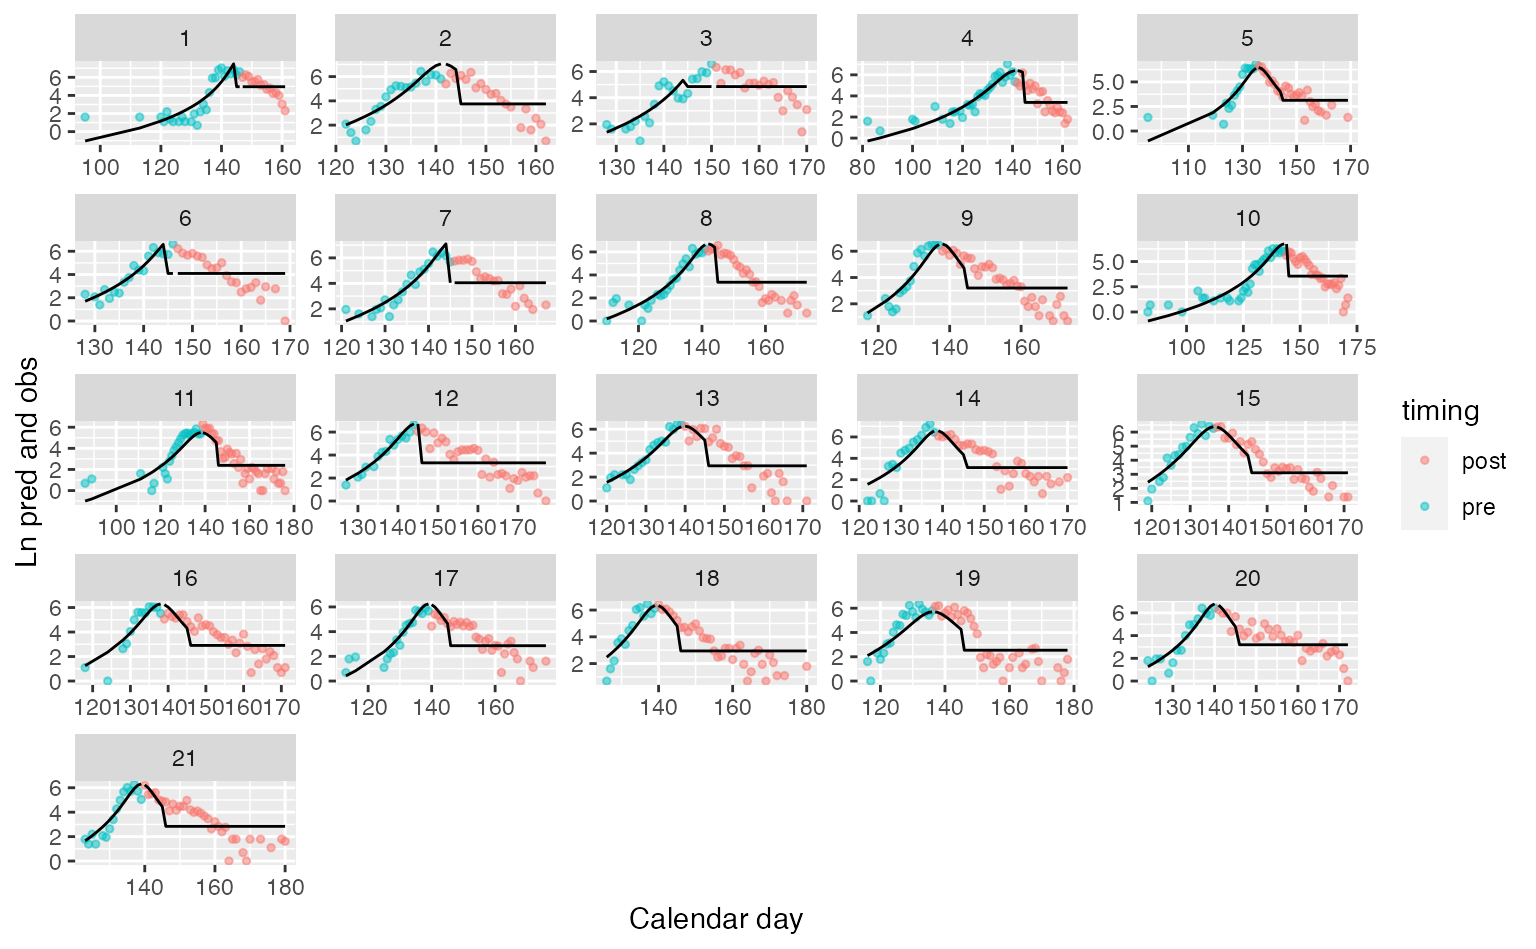
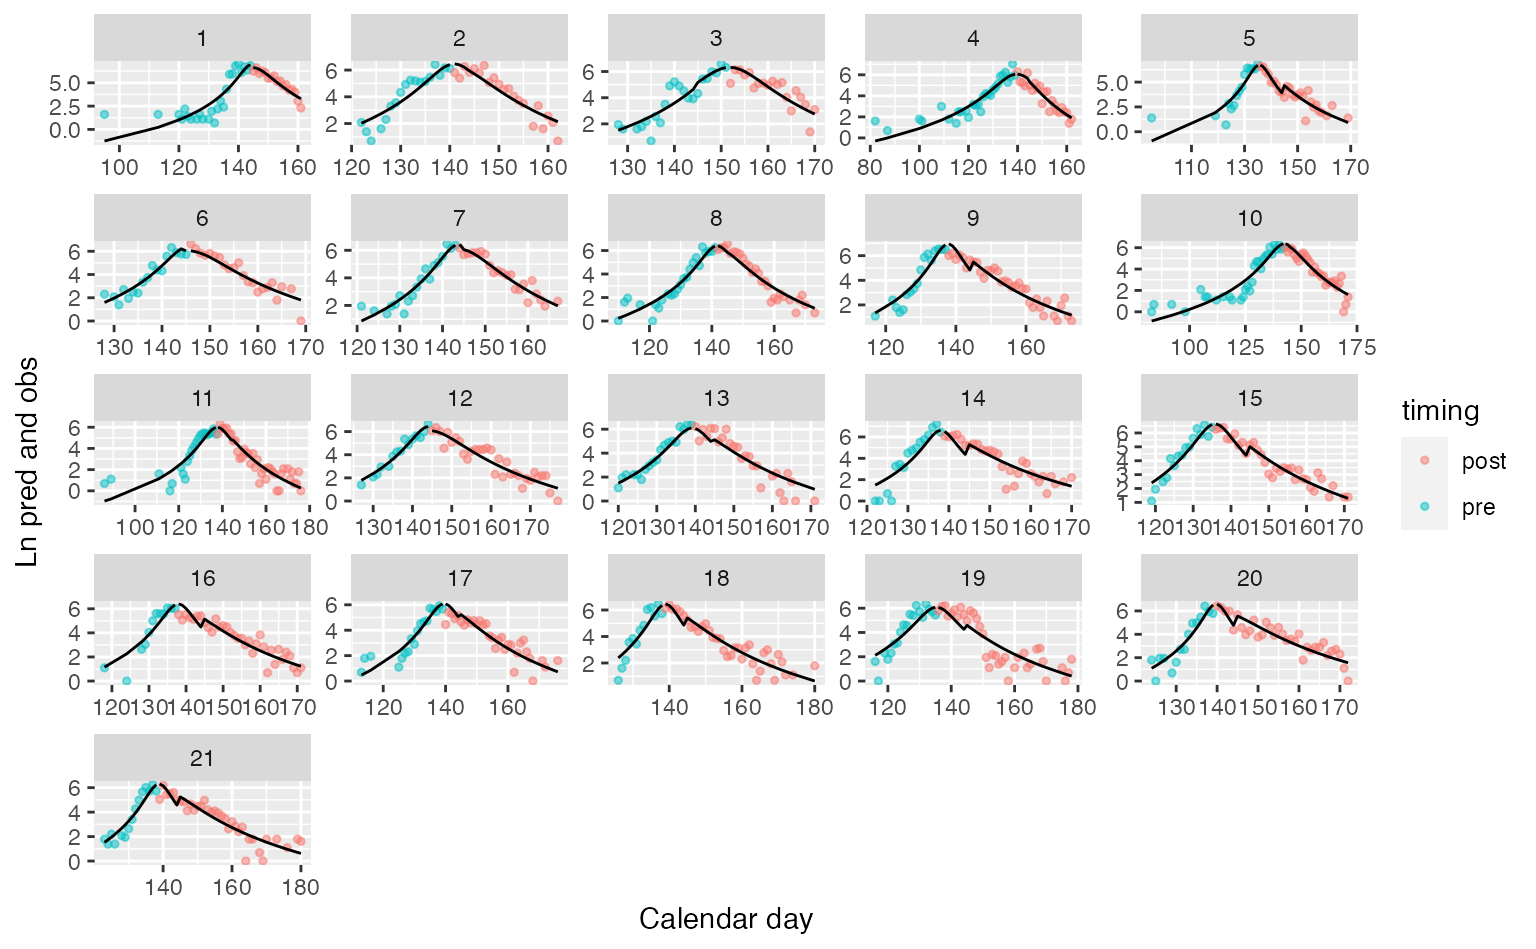
update

diff --git a/docs/articles/examples.html b/docs/articles/examples.html
@@ -5,13 +5,13 @@
 <meta charset="utf-8">
 <meta http-equiv="X-UA-Compatible" content="IE=edge">
 <meta name="viewport" content="width=device-width, initial-scale=1.0">
-<title>Curve fitting with the salmix package • salmix</title>
+<title>Fitting time varying phenology models with the salmix package • salmix</title>
 <!-- jquery --><script src="https://cdnjs.cloudflare.com/ajax/libs/jquery/3.4.1/jquery.min.js" integrity="sha256-CSXorXvZcTkaix6Yvo6HppcZGetbYMGWSFlBw8HfCJo=" crossorigin="anonymous"></script><!-- Bootstrap --><link rel="stylesheet" href="https://cdnjs.cloudflare.com/ajax/libs/twitter-bootstrap/3.4.1/css/bootstrap.min.css" integrity="sha256-bZLfwXAP04zRMK2BjiO8iu9pf4FbLqX6zitd+tIvLhE=" crossorigin="anonymous">
 <script src="https://cdnjs.cloudflare.com/ajax/libs/twitter-bootstrap/3.4.1/js/bootstrap.min.js" integrity="sha256-nuL8/2cJ5NDSSwnKD8VqreErSWHtnEP9E7AySL+1ev4=" crossorigin="anonymous"></script><!-- bootstrap-toc --><link rel="stylesheet" href="../bootstrap-toc.css">
 <script src="../bootstrap-toc.js"></script><!-- Font Awesome icons --><link rel="stylesheet" href="https://cdnjs.cloudflare.com/ajax/libs/font-awesome/5.12.1/css/all.min.css" integrity="sha256-mmgLkCYLUQbXn0B1SRqzHar6dCnv9oZFPEC1g1cwlkk=" crossorigin="anonymous">
 <link rel="stylesheet" href="https://cdnjs.cloudflare.com/ajax/libs/font-awesome/5.12.1/css/v4-shims.min.css" integrity="sha256-wZjR52fzng1pJHwx4aV2AO3yyTOXrcDW7jBpJtTwVxw=" crossorigin="anonymous">
 <!-- clipboard.js --><script src="https://cdnjs.cloudflare.com/ajax/libs/clipboard.js/2.0.6/clipboard.min.js" integrity="sha256-inc5kl9MA1hkeYUt+EC3BhlIgyp/2jDIyBLS6k3UxPI=" crossorigin="anonymous"></script><!-- headroom.js --><script src="https://cdnjs.cloudflare.com/ajax/libs/headroom/0.11.0/headroom.min.js" integrity="sha256-AsUX4SJE1+yuDu5+mAVzJbuYNPHj/WroHuZ8Ir/CkE0=" crossorigin="anonymous"></script><script src="https://cdnjs.cloudflare.com/ajax/libs/headroom/0.11.0/jQuery.headroom.min.js" integrity="sha256-ZX/yNShbjqsohH1k95liqY9Gd8uOiE1S4vZc+9KQ1K4=" crossorigin="anonymous"></script><!-- pkgdown --><link href="../pkgdown.css" rel="stylesheet">
-<script src="../pkgdown.js"></script><meta property="og:title" content="Curve fitting with the salmix package">
+<script src="../pkgdown.js"></script><meta property="og:title" content="Fitting time varying phenology models with the salmix package">
 <meta property="og:description" content="salmix">
 <!-- mathjax --><script src="https://cdnjs.cloudflare.com/ajax/libs/mathjax/2.7.5/MathJax.js" integrity="sha256-nvJJv9wWKEm88qvoQl9ekL2J+k/RWIsaSScxxlsrv8k=" crossorigin="anonymous"></script><script src="https://cdnjs.cloudflare.com/ajax/libs/mathjax/2.7.5/config/TeX-AMS-MML_HTMLorMML.js" integrity="sha256-84DKXVJXs0/F8OTMzX4UR909+jtl4G7SPypPavF+GfA=" crossorigin="anonymous"></script><!--[if lt IE 9]>
 <script src="https://oss.maxcdn.com/html5shiv/3.7.3/html5shiv.min.js"></script>
@@ -54,7 +54,7 @@
   </a>
   <ul class="dropdown-menu" role="menu">
 <li>
-      <a href="../articles/examples.html">Curve fitting with the salmix package</a>
+      <a href="../articles/examples.html">Fitting time varying phenology models with the salmix package</a>
     </li>
   </ul>
 </li>
@@ -79,7 +79,7 @@
       </header><script src="examples_files/accessible-code-block-0.0.1/empty-anchor.js"></script><div class="row">
   <div class="col-md-9 contents">
     <div class="page-header toc-ignore">
-      <h1 data-toc-skip>Curve fitting with the salmix package</h1>
+      <h1 data-toc-skip>Fitting time varying phenology models with the salmix package</h1>
             
             <h4 class="date">2021-04-06</h4>
       
@@ -165,12 +165,12 @@
   <span class="st">"value"</span><span class="op">=</span><span class="va">fitted</span><span class="op">$</span><span class="va">sdreport</span><span class="op">$</span><span class="va">value</span>, <span class="st">"sd"</span><span class="op">=</span><span class="va">fitted</span><span class="op">$</span><span class="va">sdreport</span><span class="op">$</span><span class="va">sd</span><span class="op">)</span>
 <span class="fu"><a href="https://rdrr.io/r/utils/head.html">head</a></span><span class="op">(</span><span class="va">sdrep_df</span><span class="op">)</span>
 <span class="co">#&gt;     par    value        sd</span>
-<span class="co">#&gt; 1 theta 8.405112 0.2253369</span>
-<span class="co">#&gt; 2 theta 8.625972 0.2248001</span>
-<span class="co">#&gt; 3 theta 8.468620 0.2057673</span>
-<span class="co">#&gt; 4 theta 8.151020 0.1577421</span>
-<span class="co">#&gt; 5 theta 8.114337 0.1900175</span>
-<span class="co">#&gt; 6 theta 8.234232 0.2192143</span></code></pre></div>
+<span class="co">#&gt; 1 theta 8.405112 0.2253368</span>
+<span class="co">#&gt; 2 theta 8.625975 0.2248003</span>
+<span class="co">#&gt; 3 theta 8.468619 0.2057674</span>
+<span class="co">#&gt; 4 theta 8.151018 0.1577422</span>
+<span class="co">#&gt; 5 theta 8.114336 0.1900176</span>
+<span class="co">#&gt; 6 theta 8.234240 0.2192147</span></code></pre></div>
 <p>If for some reason, these need to be re-generated, the <code>obj</code> object can be fed into</p>
 <div class="sourceCode" id="cb10"><pre class="downlit sourceCode r">
 <code class="sourceCode R"><span class="fu">TMB</span><span class="fu">::</span><span class="fu"><a href="https://rdrr.io/pkg/TMB/man/sdreport.html">sdreport</a></span><span class="op">(</span><span class="va">fitted</span><span class="op">$</span><span class="va">obj</span><span class="op">)</span></code></pre></div>
@@ -195,7 +195,7 @@ Fitted symmetric model with tails from a Gaussian distribution
 <a href="#additional-examples" class="anchor"></a>Additional examples</h3>
 <p>First, we can try to fit the same model, but using an asymmetric t-distribution.</p>
 <div class="sourceCode" id="cb12"><pre class="downlit sourceCode r">
-<code class="sourceCode R"><span class="fu"><a href="https://rdrr.io/r/base/Random.html">set.seed</a></span><span class="op">(</span><span class="fl">1</span><span class="op">)</span>
+<code class="sourceCode R"><span class="fu"><a href="https://rdrr.io/r/base/Random.html">set.seed</a></span><span class="op">(</span><span class="fl">2</span><span class="op">)</span>
 
 <span class="va">datalist</span> <span class="op">=</span> <span class="fu"><a href="../reference/create_data.html">create_data</a></span><span class="op">(</span><span class="va">fishdist</span>, 
   min_number<span class="op">=</span><span class="fl">0</span>, 
@@ -221,10 +221,10 @@ Fitted asymmetric model with heavy tails from a t-distribution
 
 <span class="va">aic_2</span> <span class="op">=</span> <span class="fu"><a href="https://rdrr.io/r/stats/extractAIC.html">extractAIC</a></span><span class="op">(</span><span class="va">fitted_t</span><span class="op">)</span><span class="op">$</span><span class="va">AIC</span>
 <span class="va">aic_2</span>
-<span class="co">#&gt; [1] 3234.865</span></code></pre></div>
+<span class="co">#&gt; [1] 2300.259</span></code></pre></div>
 <p>Second, we can we can try to fit the same model, but using a generalized normal distribution. This distribution has a plateau or ‘flat top’. For examples, see the <code>gnorm</code> package on CRAN <a href="https://cran.r-project.org/web/packages/gnorm/index.html">here</a> or <a href="https://en.wikipedia.org/wiki/Generalized_normal_distribution">Wikipedia page</a>.</p>
 <div class="sourceCode" id="cb15"><pre class="downlit sourceCode r">
-<code class="sourceCode R"><span class="fu"><a href="https://rdrr.io/r/base/Random.html">set.seed</a></span><span class="op">(</span><span class="fl">1</span><span class="op">)</span>
+<code class="sourceCode R"><span class="fu"><a href="https://rdrr.io/r/base/Random.html">set.seed</a></span><span class="op">(</span><span class="fl">5</span><span class="op">)</span>
 
 <span class="va">datalist</span> <span class="op">=</span> <span class="fu"><a href="../reference/create_data.html">create_data</a></span><span class="op">(</span><span class="va">fishdist</span>, 
   min_number<span class="op">=</span><span class="fl">0</span>, 
@@ -233,7 +233,7 @@ Fitted asymmetric model with heavy tails from a t-distribution
   date <span class="op">=</span> <span class="st">"doy"</span>,
   asymmetric_model <span class="op">=</span> <span class="cn">FALSE</span>, 
   tail_model <span class="op">=</span> <span class="st">"gnorm"</span><span class="op">)</span>
-<span class="va">fitted</span> <span class="op">=</span> <span class="fu"><a href="../reference/fit.html">fit</a></span><span class="op">(</span><span class="va">datalist</span>, inits <span class="op">=</span> <span class="va">inits</span>, limits <span class="op">=</span> <span class="cn">TRUE</span><span class="op">)</span></code></pre></div>
+<span class="va">fitted</span> <span class="op">=</span> <span class="fu"><a href="../reference/fit.html">fit</a></span><span class="op">(</span><span class="va">datalist</span>, limits <span class="op">=</span> <span class="cn">TRUE</span><span class="op">)</span></code></pre></div>
 </div>
 <div id="diagnosing-lack-of-convergence" class="section level3">
 <h3 class="hasAnchor">

diff --git a/docs/index.html b/docs/index.html
@@ -5,13 +5,13 @@
 <meta charset="utf-8">
 <meta http-equiv="X-UA-Compatible" content="IE=edge">
 <meta name="viewport" content="width=device-width, initial-scale=1.0">
-<title>Fit density curves to peak timing data that varies over time • salmix</title>
+<title>Fit Density Curves to Peak Timing Data that Varies over Time • salmix</title>
 <!-- jquery --><script src="https://cdnjs.cloudflare.com/ajax/libs/jquery/3.4.1/jquery.min.js" integrity="sha256-CSXorXvZcTkaix6Yvo6HppcZGetbYMGWSFlBw8HfCJo=" crossorigin="anonymous"></script><!-- Bootstrap --><link rel="stylesheet" href="https://cdnjs.cloudflare.com/ajax/libs/twitter-bootstrap/3.4.1/css/bootstrap.min.css" integrity="sha256-bZLfwXAP04zRMK2BjiO8iu9pf4FbLqX6zitd+tIvLhE=" crossorigin="anonymous">
 <script src="https://cdnjs.cloudflare.com/ajax/libs/twitter-bootstrap/3.4.1/js/bootstrap.min.js" integrity="sha256-nuL8/2cJ5NDSSwnKD8VqreErSWHtnEP9E7AySL+1ev4=" crossorigin="anonymous"></script><!-- bootstrap-toc --><link rel="stylesheet" href="bootstrap-toc.css">
 <script src="bootstrap-toc.js"></script><!-- Font Awesome icons --><link rel="stylesheet" href="https://cdnjs.cloudflare.com/ajax/libs/font-awesome/5.12.1/css/all.min.css" integrity="sha256-mmgLkCYLUQbXn0B1SRqzHar6dCnv9oZFPEC1g1cwlkk=" crossorigin="anonymous">
 <link rel="stylesheet" href="https://cdnjs.cloudflare.com/ajax/libs/font-awesome/5.12.1/css/v4-shims.min.css" integrity="sha256-wZjR52fzng1pJHwx4aV2AO3yyTOXrcDW7jBpJtTwVxw=" crossorigin="anonymous">
 <!-- clipboard.js --><script src="https://cdnjs.cloudflare.com/ajax/libs/clipboard.js/2.0.6/clipboard.min.js" integrity="sha256-inc5kl9MA1hkeYUt+EC3BhlIgyp/2jDIyBLS6k3UxPI=" crossorigin="anonymous"></script><!-- headroom.js --><script src="https://cdnjs.cloudflare.com/ajax/libs/headroom/0.11.0/headroom.min.js" integrity="sha256-AsUX4SJE1+yuDu5+mAVzJbuYNPHj/WroHuZ8Ir/CkE0=" crossorigin="anonymous"></script><script src="https://cdnjs.cloudflare.com/ajax/libs/headroom/0.11.0/jQuery.headroom.min.js" integrity="sha256-ZX/yNShbjqsohH1k95liqY9Gd8uOiE1S4vZc+9KQ1K4=" crossorigin="anonymous"></script><!-- pkgdown --><link href="pkgdown.css" rel="stylesheet">
-<script src="pkgdown.js"></script><meta property="og:title" content="Fit density curves to peak timing data that varies over time">
+<script src="pkgdown.js"></script><meta property="og:title" content="Fit Density Curves to Peak Timing Data that Varies over Time">
 <meta property="og:description" content="The salmix package fits time-varying density curves to run
     timing type data commonly encountered in fisheries and ecology. Example 
     applications include to peak run timing curves collected for juvenile or 
@@ -58,7 +58,7 @@
   </a>
   <ul class="dropdown-menu" role="menu">
 <li>
-      <a href="articles/examples.html">Curve fitting with the salmix package</a>
+      <a href="articles/examples.html">Fitting time varying phenology models with the salmix package</a>
     </li>
   </ul>
 </li>

diff --git a/docs/reference/create_data.html b/docs/reference/create_data.html
@@ -95,7 +95,7 @@
   </a>
   <ul class="dropdown-menu" role="menu">
     <li>
-      <a href="../articles/examples.html">Curve fitting with the salmix package</a>
+      <a href="../articles/examples.html">Fitting time varying phenology models with the salmix package</a>
     </li>
   </ul>
 </li>
@@ -140,6 +140,8 @@
   est_mu_trend <span class='op'>=</span> <span class='cn'>TRUE</span>,
   est_sigma_re <span class='op'>=</span> <span class='cn'>TRUE</span>,
   est_mu_re <span class='op'>=</span> <span class='cn'>TRUE</span>,
+  mu_covariate <span class='op'>=</span> <span class='cn'>NA</span>,
+  sigma_covariate <span class='op'>=</span> <span class='cn'>NA</span>,
   tail_model <span class='op'>=</span> <span class='st'>"gaussian"</span>,
   family <span class='op'>=</span> <span class='st'>"gaussian"</span>
 <span class='op'>)</span></pre>
@@ -188,6 +190,14 @@ different shape than run timing after peak)</p></td>
     <tr>
       <th>est_mu_re</th>
       <td><p>Whether to estimate random effects by year in mu parameter controlling location of distribution. Defaults to TRUE</p></td>
+    </tr>
+    <tr>
+      <th>mu_covariate</th>
+      <td><p>Optional covariate for including in the mu trend. If trend is estimated, and this isn't specified the covariate defaults to time</p></td>
+    </tr>
+    <tr>
+      <th>sigma_covariate</th>
+      <td><p>Optional covariate for including in the sigma trend. If trend is estimated, and this isn't specified the covariate defaults to time</p></td>
     </tr>
     <tr>
       <th>tail_model</th>

diff --git a/docs/reference/fit.html b/docs/reference/fit.html
@@ -96,7 +96,7 @@ do fitting / estimation" />
   </a>
   <ul class="dropdown-menu" role="menu">
     <li>
-      <a href="../articles/examples.html">Curve fitting with the salmix package</a>
+      <a href="../articles/examples.html">Fitting time varying phenology models with the salmix package</a>
     </li>
   </ul>
 </li>
@@ -161,10 +161,6 @@ do fitting / estimation</p>
     <tr>
       <th>limits</th>
       <td><p>Whether to include limits for stats::nlminb, defaults to FALSE</p></td>
-    </tr>
-    <tr>
-      <th>...</th>
-      <td><p>Additional arguments to be passed to</p></td>
     </tr>
     </table>
 

diff --git a/docs/articles/index.html b/docs/articles/index.html
@@ -94,7 +94,7 @@
   </a>
   <ul class="dropdown-menu" role="menu">
     <li>
-      <a href="../articles/examples.html">Curve fitting with the salmix package</a>
+      <a href="../articles/examples.html">Fitting time varying phenology models with the salmix package</a>
     </li>
   </ul>
 </li>
@@ -127,7 +127,7 @@
       <p class="section-desc"></p>
 
       <dl>
-        <dt><a href="examples.html">Curve fitting with the salmix package</a></dt>
+        <dt><a href="examples.html">Fitting time varying phenology models with the salmix package</a></dt>
         <dd></dt>
       </dl>
     </div>

diff --git a/docs/reference/fishdist.html b/docs/reference/fishdist.html
@@ -95,7 +95,7 @@
   </a>
   <ul class="dropdown-menu" role="menu">
     <li>
-      <a href="../articles/examples.html">Curve fitting with the salmix package</a>
+      <a href="../articles/examples.html">Fitting time varying phenology models with the salmix package</a>
     </li>
   </ul>
 </li>

diff --git a/docs/reference/index.html b/docs/reference/index.html
@@ -94,7 +94,7 @@
   </a>
   <ul class="dropdown-menu" role="menu">
     <li>
-      <a href="../articles/examples.html">Curve fitting with the salmix package</a>
+      <a href="../articles/examples.html">Fitting time varying phenology models with the salmix package</a>
     </li>
   </ul>
 </li>

diff --git a/docs/reference/limits.html b/docs/reference/limits.html
@@ -95,7 +95,7 @@
   </a>
   <ul class="dropdown-menu" role="menu">
     <li>
-      <a href="../articles/examples.html">Curve fitting with the salmix package</a>
+      <a href="../articles/examples.html">Fitting time varying phenology models with the salmix package</a>
     </li>
   </ul>
 </li>

diff --git a/docs/reference/plot_diagnostics.html b/docs/reference/plot_diagnostics.html
@@ -95,7 +95,7 @@
   </a>
   <ul class="dropdown-menu" role="menu">
     <li>
-      <a href="../articles/examples.html">Curve fitting with the salmix package</a>
+      <a href="../articles/examples.html">Fitting time varying phenology models with the salmix package</a>
     </li>
   </ul>
 </li>

diff --git a/docs/404.html b/docs/404.html
@@ -94,7 +94,7 @@
   </a>
   <ul class="dropdown-menu" role="menu">
     <li>
-      <a href="articles/examples.html">Curve fitting with the salmix package</a>
+      <a href="articles/examples.html">Fitting time varying phenology models with the salmix package</a>
     </li>
   </ul>
 </li>

diff --git a/docs/authors.html b/docs/authors.html
@@ -94,7 +94,7 @@
   </a>
   <ul class="dropdown-menu" role="menu">
     <li>
-      <a href="articles/examples.html">Curve fitting with the salmix package</a>
+      <a href="articles/examples.html">Fitting time varying phenology models with the salmix package</a>
     </li>
   </ul>
 </li>

diff --git a/src/salmix.cpp b/src/salmix.cpp
@@ -102,6 +102,8 @@ Type objective_function<Type>::operator() ()
   DATA_INTEGER(tail_model); // 0 if gaussian, 1 = student_t, 2 = generalized normal for tails
   DATA_INTEGER(est_sigma_re); // 0 if FALSE, 1 = TRUE. Whether to estimate deviations as random effects
   DATA_INTEGER(est_mu_re); // 0 if FALSE, 1 = TRUE. Whether to estimate deviations as random effects
+  DATA_VECTOR(mu_cov); // vector of covariates for mean trend
+  DATA_VECTOR(sigma_cov); // vector of covariates for sigma trend
 
   PARAMETER_VECTOR(sigma1_devs);
   PARAMETER_VECTOR(theta);
@@ -174,9 +176,11 @@ Type objective_function<Type>::operator() ()
     if(asymmetric == 1) {
       temp_calc = sigma2_devs(i);
       if(sig_trend==1) {
-        temp_calc += sigma2_devs(0) + sig2_b1*Type(unique_years(i));
+        //temp_calc += sigma2_devs(0) + sig2_b1*Type(unique_years(i));
+        temp_calc += sigma2_devs(0) + sig2_b1*Type(sigma_cov(i));
         // scalar(i) is just log(sig2) - log(sig1)
-        scalar(i) = sig2_b1*Type(unique_years(i)) + sigma2_devs(i) - (sig1_b1*Type(unique_years(i)) + sigma1_devs(i));
+        //scalar(i) = sig2_b1*Type(unique_years(i)) + sigma2_devs(i) - (sig1_b1*Type(unique_years(i)) + sigma1_devs(i));
+        scalar(i) = sig2_b1*Type(sigma_cov(i)) + sigma2_devs(i) - (sig1_b1*Type(sigma_cov(i)) + sigma1_devs(i));
       } else {
         scalar(i) = sigma2_devs(i) - sigma1_devs(i);
       }
@@ -197,7 +201,8 @@ Type objective_function<Type>::operator() ()
       mu(i) += exp(log_mu_b0);
     }
     if(mu_trend == 1) {
-      mu(i) += mu_b1*Type(unique_years(i));
+      //mu(i) += mu_b1*Type(unique_years(i));
+      mu(i) += mu_b1*Type(mu_cov(i));
     }
 
     // this is all for calculating quantiles on LHS
